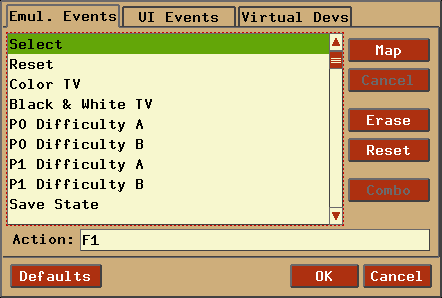
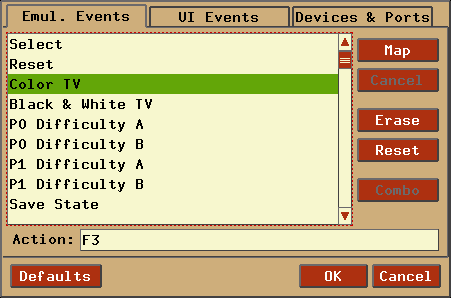
Updated webpage for upcoming 3.2.1 release.

diff --git a/docs/index.html b/docs/index.html
@@ -10,7 +10,7 @@
   <br><br>
   <center><h2><b>A multi-platform Atari 2600 VCS emulator</b></h2></center>
 
-  <center><h4><b>Release 3.2</b></h4></center>
+  <center><h4><b>Release 3.2.1</b></h4></center>
   <br><br>
 
   <center><h2><b>User's Guide</b></h2></center>
@@ -2341,10 +2341,10 @@
 
   </p>
 
-  <p>Virtual devices can be configured under the 'Virtual Devs' tab, shown below:</p>
+  <p>Device and port settings can be configured under the 'Devices & Ports' tab, shown below:</p>
   <table border="5" cellpadding="2" frame="box" rules="none">
     <tr>
-      <td><img src="graphics/eventmapping_virtualdevs.png"></td>
+      <td><img src="graphics/eventmapping_devsports.png"></td>
       <td>&nbsp;&nbsp;&nbsp;&nbsp;</td>
       <td valign="top">
         <table border="1" cellpadding="4">
@@ -2541,7 +2541,7 @@
   this is outside the scope of this document).  Once your operating system
   properly detects the AtariVox, you will need to tell Stella which serial
   port it is connected to.  This is done by using the '-avoxport' commandline
-  argument, or by setting it in the UI under the 'Virtual Devs' tab in
+  argument, or by setting it in the UI under the 'Devices & Ports' tab in
   <b>Advanced Configuration - <a href="#Remapping">Input Devices</a></b>.</p>
 
   <p>Note that you must use the entire name of the port as specified by

diff --git a/downloads.php b/downloads.php
@@ -15,57 +15,57 @@
 <table BORDER=0 CELLPADDING=6 WIDTH="100%">
 
 	<tr>
-		<td><b>Latest&nbsp;Release (v/ 3.2)</b></td>
+		<td><b>Latest&nbsp;Release (v/ 3.2.1)</b></td>
 		<td>&nbsp;</td>
 	</tr>
 
 	<tr>
-		<td BGCOLOR="#CCCCCC"><a href="http://prdownloads.sourceforge.net/stella/Stella-3.2-win32.exe?download">Stella-3.2-win32.exe</a></td>
+		<td BGCOLOR="#CCCCCC"><a href="http://prdownloads.sourceforge.net/stella/Stella-3.2.1-win32.exe?download">Stella-3.2.1-win32.exe</a></td>
 		<td BGCOLOR="#FFCC99">Binary installer (exe) for 32-bit Windows 2000/XP/Vista/7</td>
 	</tr>
 
 	<tr>
-		<td BGCOLOR="#CCCCCC"><a href="http://prdownloads.sourceforge.net/stella/Stella-3.2-x64.exe?download">Stella-3.2-x64.exe</a></td>
+		<td BGCOLOR="#CCCCCC"><a href="http://prdownloads.sourceforge.net/stella/Stella-3.2.1-x64.exe?download">Stella-3.2.1-x64.exe</a></td>
 		<td BGCOLOR="#FFCC99">Binary installer (exe) for 64-bit Windows Vista/7</td>
 	</tr>
 
 	<tr>
-		<td BGCOLOR="#CCCCCC"><a href="http://prdownloads.sourceforge.net/stella/Stella-3.2-windows.zip?download">Stella-3.2-windows.zip</a></td>
+		<td BGCOLOR="#CCCCCC"><a href="http://prdownloads.sourceforge.net/stella/Stella-3.2.1-windows.zip?download">Stella-3.2.1-windows.zip</a></td>
 		<td BGCOLOR="#FFCC99">Binary ZIP (32-bit and 64-bit) for Windows 2000/XP/Vista/7</td>
 	</tr>
 
 	<tr>
-		<td BGCOLOR="#CCCCCC"><a href="http://prdownloads.sourceforge.net/stella/Stella-3.2-macosx.dmg?download">Stella-3.2-macosx.dmg</a></td>
+		<td BGCOLOR="#CCCCCC"><a href="http://prdownloads.sourceforge.net/stella/Stella-3.2.1-macosx.dmg?download">Stella-3.2.1-macosx.dmg</a></td>
 		<td BGCOLOR="#FFCC99">Binary DMG for MacOS X (32-bit Universal Binary, version 10.4 and higher)</td>
 	</tr>
 
 	<tr>
-		<td BGCOLOR="#CCCCCC"><a href="http://prdownloads.sourceforge.net/stella/Stella-3.2_intel_10.6-macosx.dmg?download">Stella-3.2_intel_10.6-macosx.dmg</a></td>
+		<td BGCOLOR="#CCCCCC"><a href="http://prdownloads.sourceforge.net/stella/Stella-3.2.1_intel_10.6-macosx.dmg?download">Stella-3.2.1_intel_10.6-macosx.dmg</a></td>
 		<td BGCOLOR="#FFCC99">Binary DMG for MacOS X (32/64-bit, Intel CPU/Snow Leopard only)</td>
 	</tr>
 
 	<tr>
-		<td BGCOLOR="#CCCCCC"><a href="http://prdownloads.sourceforge.net/stella/stella_3.2-1_i386.deb?download">stella_3.2-1_i386.deb</a></td>
+		<td BGCOLOR="#CCCCCC"><a href="http://prdownloads.sourceforge.net/stella/stella_3.2.1-1_i386.deb?download">stella_3.2.1-1_i386.deb</a></td>
 		<td BGCOLOR="#FFCC99">Binary 32-bit DEB for Ubuntu Lucid Lynx (10.04)</td>
 	</tr>
 
 	<tr>
-		<td BGCOLOR="#CCCCCC"><a href="http://prdownloads.sourceforge.net/stella/stella_3.2-1_amd64.deb?download">stella_3.2-1_amd64.deb</a></td>
+		<td BGCOLOR="#CCCCCC"><a href="http://prdownloads.sourceforge.net/stella/stella_3.2.1-1_amd64.deb?download">stella_3.2.1-1_amd64.deb</a></td>
 		<td BGCOLOR="#FFCC99">Binary 64-bit DEB for Ubuntu Lucid Lynx (10.04)</td>
 	</tr>
 
 	<tr>
-		<td BGCOLOR="#CCCCCC"><a href="http://prdownloads.sourceforge.net/stella/stella-3.2-2.i386.rpm?download">stella-3.2-2.i386.rpm</a></td>
+		<td BGCOLOR="#CCCCCC"><a href="http://prdownloads.sourceforge.net/stella/stella-3.2.1-2.i386.rpm?download">stella-3.2.1-2.i386.rpm</a></td>
 		<td BGCOLOR="#FFCC99">Binary 32-bit RPM for Linux (tested in Fedora and Mandriva)</td>
 	</tr>
 
 	<tr>
-		<td BGCOLOR="#CCCCCC"><a href="http://prdownloads.sourceforge.net/stella/stella-3.2-2.x86_64.rpm?download">stella-3.2-2.x86_64.rpm</a></td>
+		<td BGCOLOR="#CCCCCC"><a href="http://prdownloads.sourceforge.net/stella/stella-3.2.1-2.x86_64.rpm?download">stella-3.2.1-2.x86_64.rpm</a></td>
 		<td BGCOLOR="#FFCC99">Binary 64-bit RPM for Linux (tested in Fedora and Mandriva)</td>
 	</tr>
 
 	<tr>
-		<td BGCOLOR="#CCCCCC"><a href="http://prdownloads.sourceforge.net/stella/stella-3.2-src.tar.gz?download">stella-3.2-src.tar.gz</a></td>
+		<td BGCOLOR="#CCCCCC"><a href="http://prdownloads.sourceforge.net/stella/stella-3.2.1-src.tar.gz?download">stella-3.2.1-src.tar.gz</a></td>
 		<td BGCOLOR="#FFCC99">Source code tarball for all systems</td>
 	</tr>
 
@@ -80,7 +80,7 @@
 	</tr>
 
 	<tr>
-		<td BGCOLOR="#CCCCCC"><a href="http://prdownloads.sourceforge.net/stella/stella-snapshots-20100820.zip?download">stella-snapshots-20100820.zip</a></td>
+		<td BGCOLOR="#CCCCCC"><a href="http://prdownloads.sourceforge.net/stella/stella-snapshots-20100825.zip?download">stella-snapshots-20100825.zip</a></td>
 		<td BGCOLOR="#FFCC99">Snapshot files for use in ROM launcher/ROM Info Viewer</td>
 	</tr>
 

diff --git a/stellanews.php b/stellanews.php
@@ -12,6 +12,22 @@
 			<div class="content">
 
 <!---------------------------------------------------------------->
+<H4>August 25, 2010</H4>
+Stella release 3.2.1 for Linux, MacOS X and Windows is now available.
+<ul>
+<li>Improved behaviour of joystick 'hat' movement.  This should fix bugs
+    most visible in Yars' Revenge.</li>
+
+<li>Fixed bug in debugger rewind states; bankswitching wasn't being
+    performed during the rewind.  Related to this, fixed a similar issue
+    with the debugger 'loadstate' and 'savestate' commands.</li>
+
+<li>Added game properties info for the newly released 'Halo 2600' ROM.</li>
+</ul>
+
+Have Fun!
+
+
 <H4>August 20, 2010</H4>
 Added an FAQ (frequently asked questions) section to the Stella webpage.
 
@@ -119,8 +135,6 @@ Stella release 3.2 for Linux, MacOS X and Windows is now available.
 
 <li>Updated included ZLib to latest release version (1.2.5).</li>
 </ul>
-
-Have Fun!
 
 
 <H4>May 3, 2010</H4>

diff --git a/footer.php b/footer.php
@@ -2,4 +2,4 @@
 <a href="http://www.bradfordmott.com">Bradford W. Mott</a>, 
 <a href="http://minbar.org">Stephen Anthony</a> and 
 <a href="theteam.php">The Stella Team</a>
-<br />	Site Updated August 20, 2010</p>
+<br />	Site Updated August 25, 2010</p>
